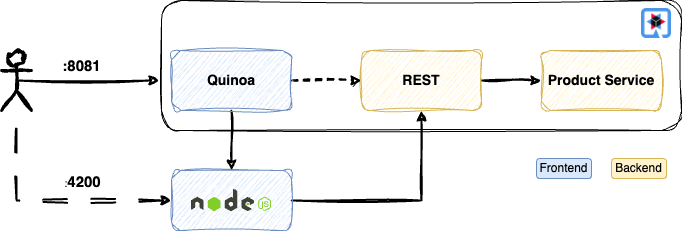
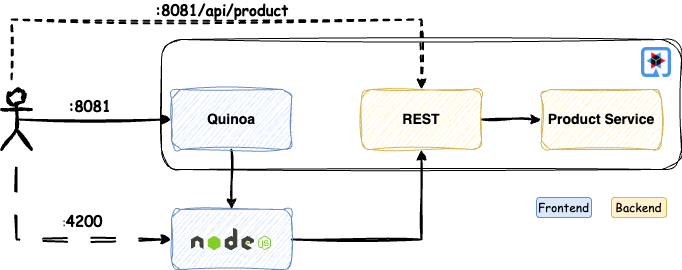
Corrected description about the routing

diff --git a/README.md b/README.md
@@ -42,7 +42,7 @@ A JSF-based application requires a servlet container, and Quarkus supports this 
 
 Key advantages of using Quarkus include the ability to run the application as a standalone JAR file—no need for a traditional WAR file deployment. Moreover, during development, Quarkus’s live coding feature ensures that changes are reflected immediately without restarting the application.
 
-![JSF Application Architecture](docs/catalog-jsf.png)
+![JSF Application Architecture](docs/catalog-faces.png)
 
 When the user accesses the application URL on port 8080, the catalog page is displayed.
 
@@ -58,6 +58,8 @@ As with the JSF app, Quarkus’s live coding ensures instant reflection of chang
 ![Angular Application Architecture](docs/catalog-angular.png)
 
 When the user accesses the application URL on port 8081, the request is routed through Quinoa, which proxies it and forwards the call to the Node.js server. Since the backend is running on Quarkus, the Angular application communicates with the REST API. Alternatively, users can directly access the Angular application on port 4200.
+
+When a REST API is called, it is served by Quarkus’s REST extension, regardless of whether it is accessed directly by the user or by the Angular application.
 
 ## Choosing Between JSF and Angular
 Both JSF and Angular have their strengths:
